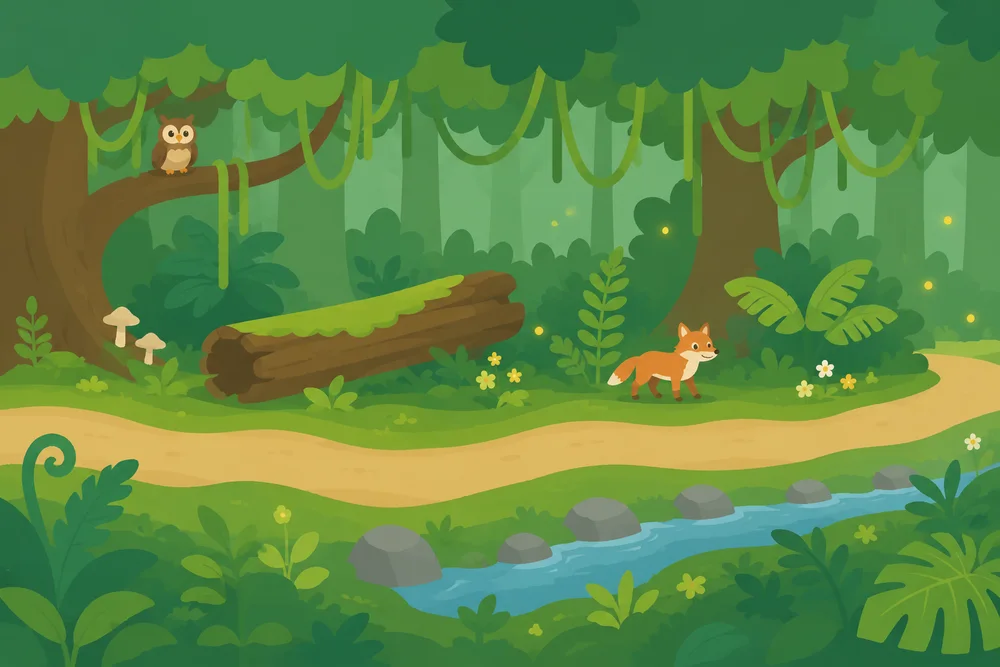
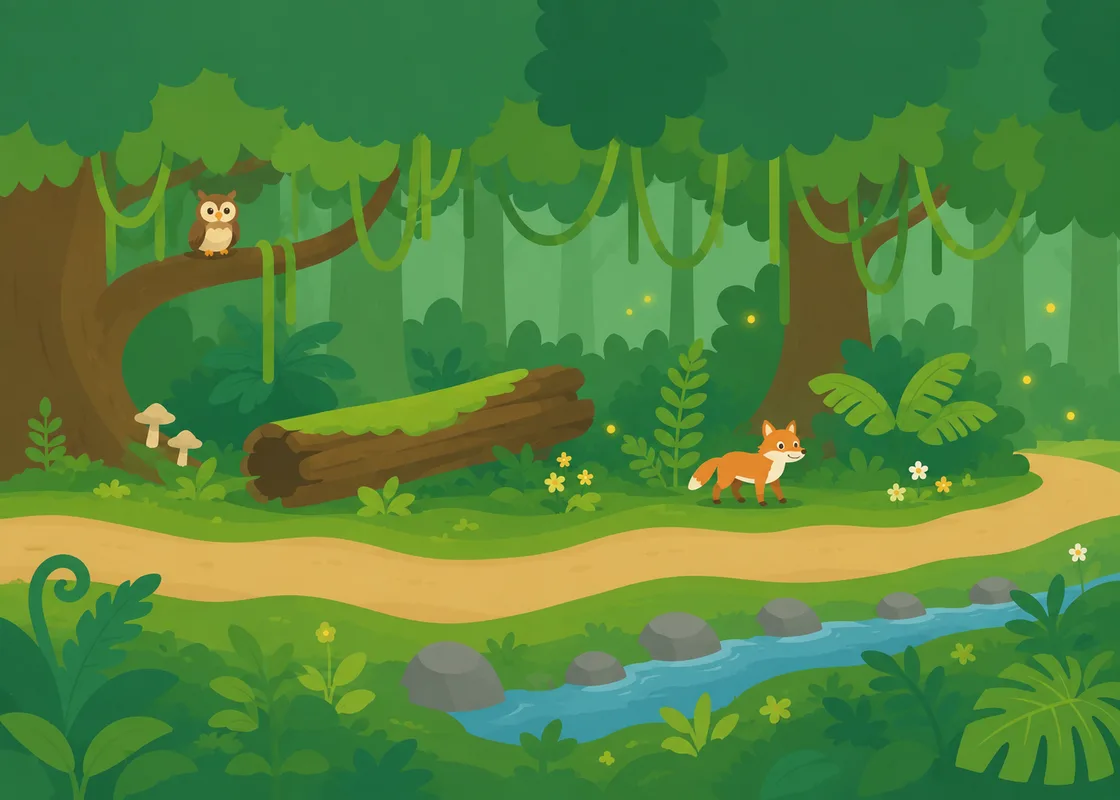
feat: 깊은 숲 배경 v3 — 1.4:1 큰 카드 (8/12)
- 1484x1060 = 1.4:1 새 원화 적용 (width 1120, 47KB), v2 원본은 규칙대로 삭제
- 굽은 흙길이 왼쪽 아래에서 오른쪽 뒤로 이어져 살짝 오르막 — charB 30→36
- 여우·부엉이·통나무는 길가 장식, 개울은 앞쪽에 남는다
- 화면 확인: 3상태 모두 잘림 없음

Claude-Session: https://claude.ai/code/session_018maNuYqDfFyRSe9uKpZhPR

diff --git a/src/data/expeditions.js b/src/data/expeditions.js
@@ -156,10 +156,13 @@ export const EXPEDITIONS = {
     /* Ch4 깊은 숲 — 숲길을 통과한다 */
     mounts:["horse","unicorn","deer","donkey","dragon","owl"],
     pose:"walk", item:"compass", goal:"🏡", goalImg:"assets/expedition/flag/green.webp",   // 숲 = 나뭇잎 깃발
-    bgImg:"assets/expedition/bg-forest.webp",   // 사용자 배경 원화 v2 '깊은 숲' (v1 숲길은 art-src 보존)
+    bgImg:"assets/expedition/bg-forest.webp",   // 사용자 배경 원화 v3 (1.4:1 — 큰 카드용, 원본 art-src)
     scene:{ sky:["#D8EFC9","#F0F6E2"], ground:["#9CBF7C","#7BA45E"], groundH:36,
-      /* 깊은 숲 흙길 — 왼쪽에서 오른쪽으로 살짝 오르막 (charB→charB1 보간) */
-      charB:29, charB1:35, goalB:38, x0:10, x1:81,
+      bgAR:1.4,
+      /* 굽은 흙길 — 왼쪽 아래에서 오른쪽 뒤로 이어져 살짝 오르막 (여우·부엉이는 길가 장식) */
+      charB:30, charB1:36, x0:14, x1:78,
+      xi:14, iB:30,
+      xa:82, aB:37, gx:90, goalB:40,
       deco:[[6,28,"🌳",28],[14,62,"🍄",13],[93,30,"🌳",26],[87,66,"🌿",14],[9,84,"🦋",11]] } },
   cave: { key:"cave", title:"동굴을 빠져나가자!", emoji:"🕳",
     /* Ch5 동굴 — 어둠 속을 빠져나간다 */

diff --git a/art-src/README.md b/art-src/README.md
@@ -161,7 +161,7 @@ halo가 외곽선을 흐려서 생긴 착시였다.
 | expedition/bg/bg-river-v4-src.webp | 강 배경 v4 (1484×1060 = 1.4:1 — 큰 카드용 재제작, 현행) | expedition/bg-river.webp |
 | expedition/flag/{red,blue,green,yellow}-src.webp | 도착 깃발 4색 (빨강 잎가지·파랑 물방울·초록 잎·노랑 별 — halo 보정 후 탑재) | expedition/flag/*.webp |
 | expedition/bg/bg-mountain-src.webp | 바위산 배경 (화요일, 1536×1024 — 돌계단 대각선 등반) | expedition/bg-mountain.webp |
-| expedition/bg/bg-forest-v2-src.webp | 깊은 숲 배경 v2 (수요일 현행 — v1 숲길 교체, 여우·부엉이·개울) | expedition/bg-forest.webp |
+| expedition/bg/bg-forest-v3-src.webp | 깊은 숲 배경 v3 (1484×1060 = 1.4:1 — 큰 카드용 재제작, 여우·부엉이·개울, 현행) | expedition/bg-forest.webp |
 | expedition/bg/bg-wood-v3-src.webp | 숲길 산책 배경 v3 (1484×1060 = 1.4:1 — 큰 카드용 재제작, 현행) | expedition/bg-wood.webp |
 | expedition/bg/bg-cave-v3-src.webp | 동굴 배경 v3 (1483×1061 = 1.4:1 — 큰 카드용 재제작, 현행) | expedition/bg-cave.webp |
 | expedition/bg/bg-meadow-src.webp | 초원 배경 (9번째 탐험 '초원을 달리자!' — 양·풍차) | expedition/bg-meadow.webp |
